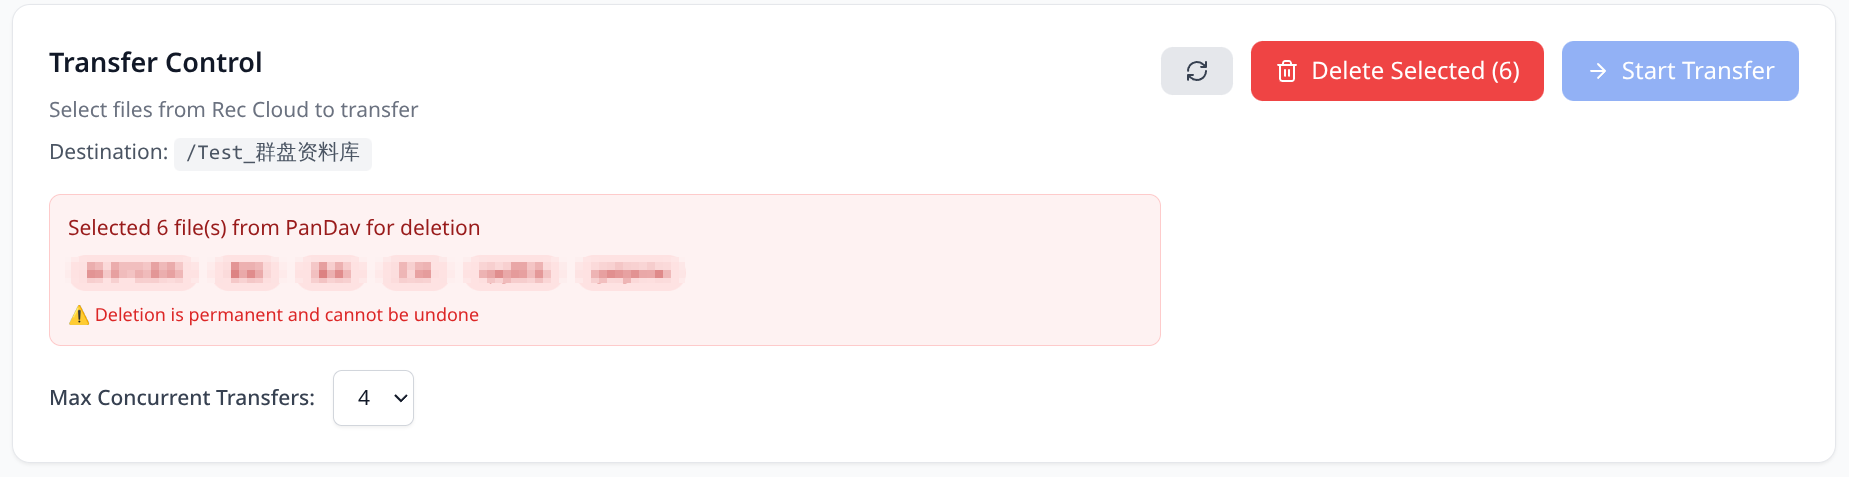
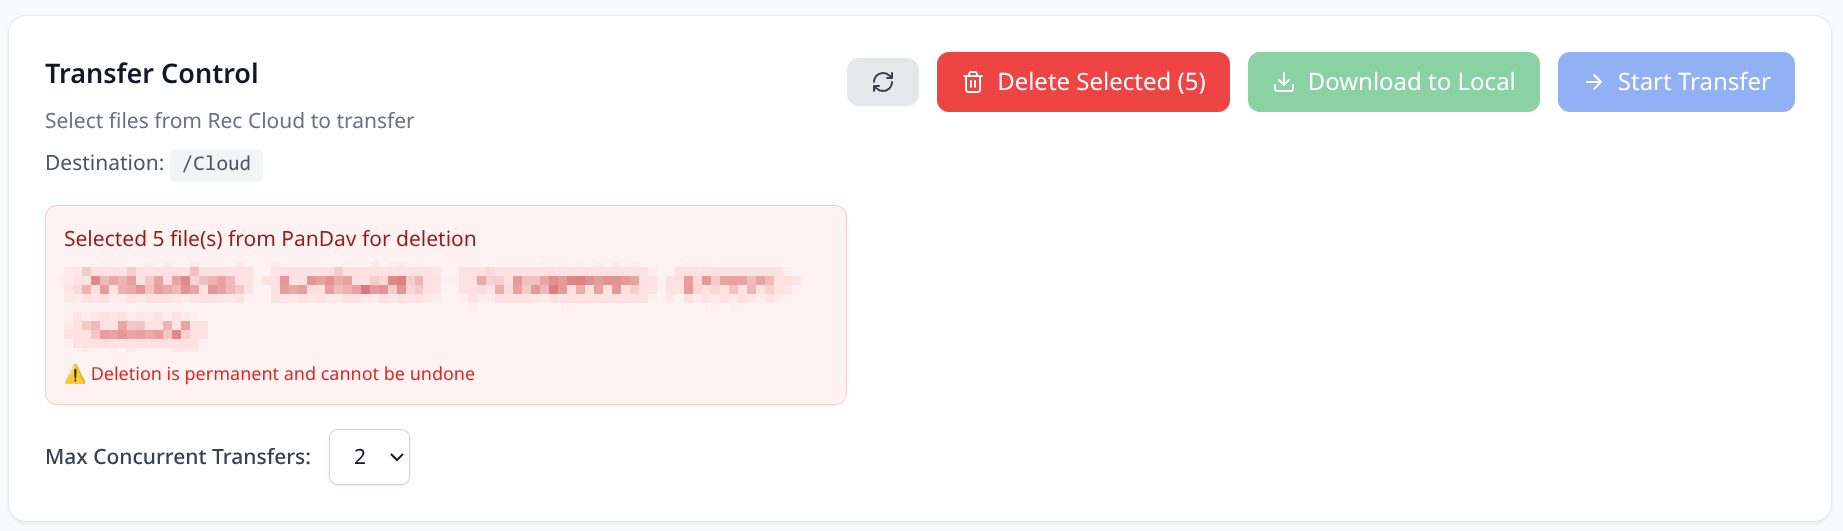
docs: add login and download introduction

diff --git a/docs/user-guide/usage.md b/docs/user-guide/usage.md
@@ -55,10 +55,26 @@
 
 最后您能在最下面的 Transfer Monitor 块中看到迁移的进度和状态。
 
+## 个人/群组云盘下载
+
+- 个人云盘下载和迁移类似，首先点击左边 Rec Cloud Storage 的 cloud 目录，进入个人云盘的根目录。在这里，您能看到您的个人云盘文件列表，通过勾选文件或文件夹的复选框，您可以选择要下载的文件或文件夹。
+
+- 群组云盘下载同样类似，首先点击左边 Rec Cloud Storage 的 group 目录，进入群组云盘的根目录。在这里，您能看到您所在的群组云盘列表，选择你想要下载的群组并点击，进入该群组的云盘根目录，您可以选择要下载的文件或文件夹。
+
+然后，直接点击 Transfer Control 块中的 Download to Local 按钮进入选择下载位置的界面。
+
+![个人云盘下载](../assets/download.png)
+
+接着，您可以选择下载到本地的文件夹，点击 Start This Directory 按钮即可开始下载。
+
+最后您能在最下面的 Transfer Monitor 块中看到下载的进度和状态。
+
 ## 辅助功能
 
 如果您的科大新网盘中已经存放了文件/文件夹，或者由于传输失误，有部分文件夹已经存在但是没完全传输过去，您可以在 PanDav WebDAV Storage 下看到这些文件/文件夹也能被选中。
 
 选中一些文件/文件夹之后，您可以在 Transfer Control 块中看到一个按钮叫做 "Delete Selected"，点击它可以删除这些选中的文件/文件夹。这是一个辅助功能，主要是为了方便用户清理云盘迁移过程中意外传输失败的文件/文件夹，以便能够重新传输。
+
+ps: 现在 reccli-ts 已经支持了断点续传，因此该功能在大部分情况下无需使用。
 
 ![辅助功能](../assets/delete.png)

diff --git a/docs/user-guide/login.md b/docs/user-guide/login.md
@@ -10,3 +10,6 @@
 
     - Rec 网盘账号密码通常就是您的统一身份认证账号密码。
     - 科大新网盘的 WebDav 账号密码需要您在 [https://pan.ustc.edu.cn/my/webDav](https://pan.ustc.edu.cn/my/webDav) 页面上获取。
+
+!!! question "毕业师生没有科大新网盘账号怎么办？"
+    - 如果您是已经毕业的师生，您可能没有新网盘的账号，因此这种情况下您可以选择取消勾选 Enable WebDAV Account (Optional)，相应的，在登录后，您将无法将 Rec 网盘的文件迁移到科大新网盘，但是可以下载 Rec 网盘的文件到本地。
